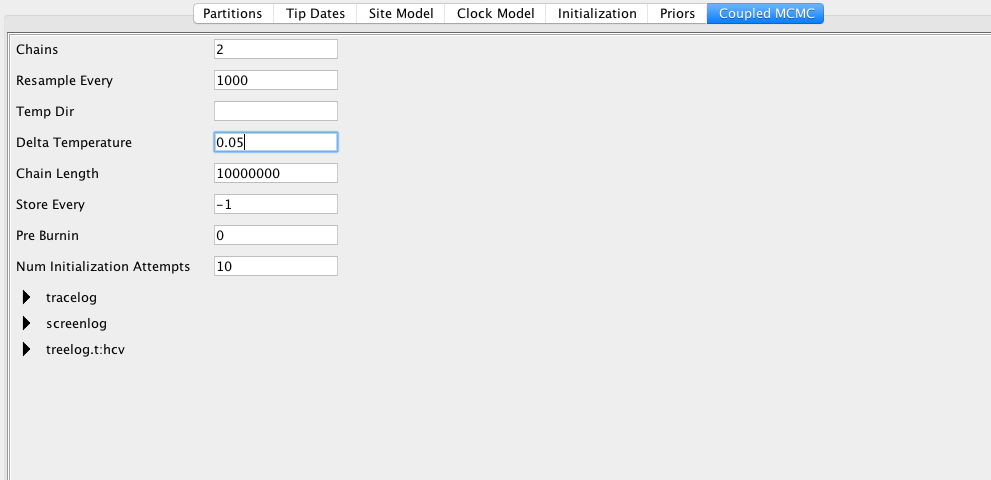
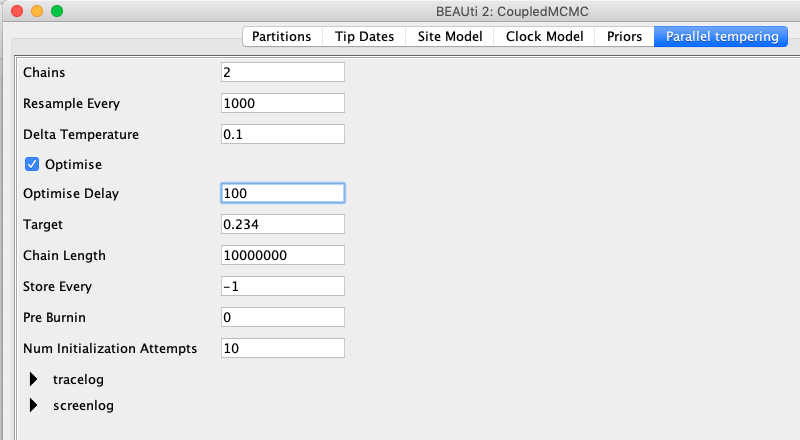
changes tutorial to adaptive parallel tempering

diff --git a/README.md b/README.md
@@ -1,25 +1,29 @@
 ---
 author: Nicola F. Müller
-level: Intermediate
-title: Bayesian Skyline with coupled MCMC Tutorial
-subtitle: Setting up Bayesian Skyline with coupled MCMC
-beastversion: 2.5.2
+level: Easy
+title: Bayesian Skyline with adaptive parallel Tempering with CoupledMCMC Tutorial
+subtitle: Adaptive parallel Tempering
+beastversion: 2.6.0
 ---
 
 
 
 # Background
 
-Coupled MCMC (also called parallel tempering or MC^3) is a Bayesian approach that uses heated chains in order to traverse unfavourable intermediate states more easily and in order to parallelise analyses.
-Coupled MCMC works by having 1 cold chain which works exactly the same as a standard MCMC chain and one or more heated chains.
+Parallel tempering is a Bayesian approach that uses heated chains in order to traverse unfavourable intermediate states more easily and in order to parallelise analyses.
+Parallel tempering works by having one cold chain which works exactly the same as a standard MCMC chain and one or more heated chains.
 The chains are heated in temperature increments defined in this implementations as *deltaTemperature*.
 These heated chains have increase acceptance probabilities, making it more easily for them to explore parts of the state space that are less likely.
 In turn however, these heated chains to not explore the posterior probability space such that the frequency at which they visit a state is proportional to their probability.
 The can however be used to propose new states.
-In order to do so, coupled MCMC proposes to exchange the states of two random chains after each chain is run for some amount of iterations in what amounts to a MCMC move.
+In order to do so, parallel tempering proposes to exchange the states of two random chains after each chain is run for some amount of iterations in what amounts to a MCMC move.
 After how many iterations the states of two random chains are proposed to be swapped is in this implementation called *resampleEvery*.
+The webpage [https://darrenjw.wordpress.com/2013/09/29/parallel-tempering-and-metropolis-coupled-mcmc/](https://darrenjw.wordpress.com/2013/09/29/parallel-tempering-and-metropolis-coupled-mcmc/), gives a good introduction into how parallel tempering.
 
-The webpage [https://darrenjw.wordpress.com/2013/09/29/parallel-tempering-and-metropolis-coupled-mcmc/](https://darrenjw.wordpress.com/2013/09/29/parallel-tempering-and-metropolis-coupled-mcmc/), gives a good introduction into how coupled MCMC works.
+Typically, using such an approach requires to find optimal temperatures for heated chains that allow using the additional computational resources efficiently.
+The parallel tempering approach implemented in CoupledMCMC circumvents this by automatically tuning this temperature difference during a run to achieve an acceptance probability of swaps of 0.234.
+This means that the only additional parameter that has to be specified by the user is the number of chains used, which is typically determined by the number of CPU's available.
+
 
 
 ----
@@ -46,16 +50,18 @@ TreeAnnotator is provided as a part of the BEAST2 package so you do not need to 
 
 ----
 
-# Practical: Setting up an analysis with coupled MCMC
+# Practical: Setting up an analysis with CoupledMCMC
 
-In this tutorial, we will describe the two different ways to setup a BEAST2 analysis to run with coupled MCMC.
+In this tutorial, we will describe the two different ways to setup a BEAST2 analysis to run with CoupledMCMC
 To do so, we will setup a Bayesian Skyline plot analysis by following analogue to the tutorial on [skyline plots](https://taming-the-beast.org/tutorials/Skyline-plots/).
 
 Setting up an analysis in BEAUTi is currently only possible for analyses that only use the standard template, i.e. such for which setting up an analysis does not require to load a template.
-All other analyses have to be setup by editing one line in the `*xml` file.
+
+All other analyses can use a conversion tool to convert an MCMC xml into a parallel tempering xml.
 
 
 ## The Data
+
 The dataset consists of an alignment of 63 Hepatitis C sequences sampled in 1993 in Egypt {% cite Ray2000 --file CoupledMCMC-Tutorial/master-refs %}. This dataset has been used previously to test the performance of skyline methods {% cite Pybus2003, Drummond2005, Stadler2013 --file CoupledMCMC-Tutorial/master-refs %}.
 
 With an estimated 15-25%, Egypt has the highest Hepatits C prevalence in the world. In the mid 20^(th) century, the prevalence of Hepatitis C increased drastically (see [Figure 1](#fig:prevalence) for estimates). We will try to infer this increase from sequence data.
@@ -88,10 +94,10 @@ Next, we have to load the BEAUTi template from `File`, select `Template >> Coupl
 <figure>
 	<a id="fig:example1"></a>
 	<img style="width:70%;" src="figures/Template.png" alt="">
-	<figcaption>Figure 2: Load the Coupled MCMC template to setup an analysis.</figcaption>
+	<figcaption>Figure 2: Load the CoupledMCMC template to setup an analysis.</figcaption>
 </figure>
 
-This template is exactly the same as the standard BEAUTi template, but uses coupled MCMC instead of regular MCMC.
+This template is exactly the same as the standard BEAUTi template, but uses parallel tempering instead of regular MCMC.
 
 
 ### Setting up the analysis with Bayesian Coalescent Skyline (similar to [skyline plots](https://taming-the-beast.org/tutorials/Skyline-plots/))
@@ -136,19 +142,21 @@ For this analysis we will set the number of dimensions to 4 (the default value i
 
 Choosing the dimension for the Bayesian Coalescent Skyline can be rather arbitrary. If the dimension is chosen too low, not all population changes are captured, if it is chosen too large, there might be too little information in an interval to support an estimate of a population size. There are implementations in BEAST of the coalescent skyline that either sample dimensions (Extended Bayesian Skyline {% cite Heled2008 --file CoupledMCMC-Tutorial/master-refs %}) or do not require dimensions to be specified (Skyride {% cite Minin2008 --file CoupledMCMC-Tutorial/master-refs %}).
 
-We can leave the rest of the priors as they are and go to the `Coupled MCMC panel`.
+We can leave the rest of the priors as they are and go to the `Parallel tempering` panel.
 In contrast to regular MCMC, we have to define a few more things.
 First, we have to define the number of chains.
 This number should be equal to the number of threads you can run, resp. the number of CPU cores.
-The `resampleEvery`, defines after how many iterations, two chains should be proposed to exchange states.
+The `Resample Every`, defines after how many iterations, two chains should be proposed to exchange states.
 If this is too low, the chains will communicate a lot and the exchanging of states itself can consume more time then the actual MCMC.
 If it's too high, the states of chains are exchanged and the ESS per time isn't as high as it could be.
-We here propose to exchange states between the 2 chains every 1000 iterations, which will allow for at most 10 000 swaps of states.
+We here exchange states between the 2 chains every 1000 iterations, which will allow for at most 10 000 swaps of states during the whole analysis.
 
-The next parameter we have to set is the `deltaTemperature`, the higher this value, the hotter chains become and the more time they spend in unlikely parts of the posterior probability space.
-Hotter chains on the other hand are more easily able to cross unlikely intermediate states and can therefore help chains to move out of local optimas.
-Here, we use a value of 0.05.
-This value should be different depending on the dataset, the analysis and the number of chains.
+The next parameter we have to set is the `Delta Temperature`.
+Hotter chains are more easily able to cross unlikely intermediate states and can therefore help chains to move out of local optimas.
+`Delta Temperature` here is only the initial value of the temperature difference between the two chains and will be tuned lated on automatically.
+`Target` defines the target acceptance probability.
+The temperature difference will be adapted during the analysis to match this acceptance probability over the course of the analysis.
+
 Overall, it should be chosen such that the acceptance probability of an exchange of states between chains is between 0.25 and 0.6 {% cite altekar2004parallel --file CoupledMCMC-Tutorial/master-refs %}.
 
 <figure>
